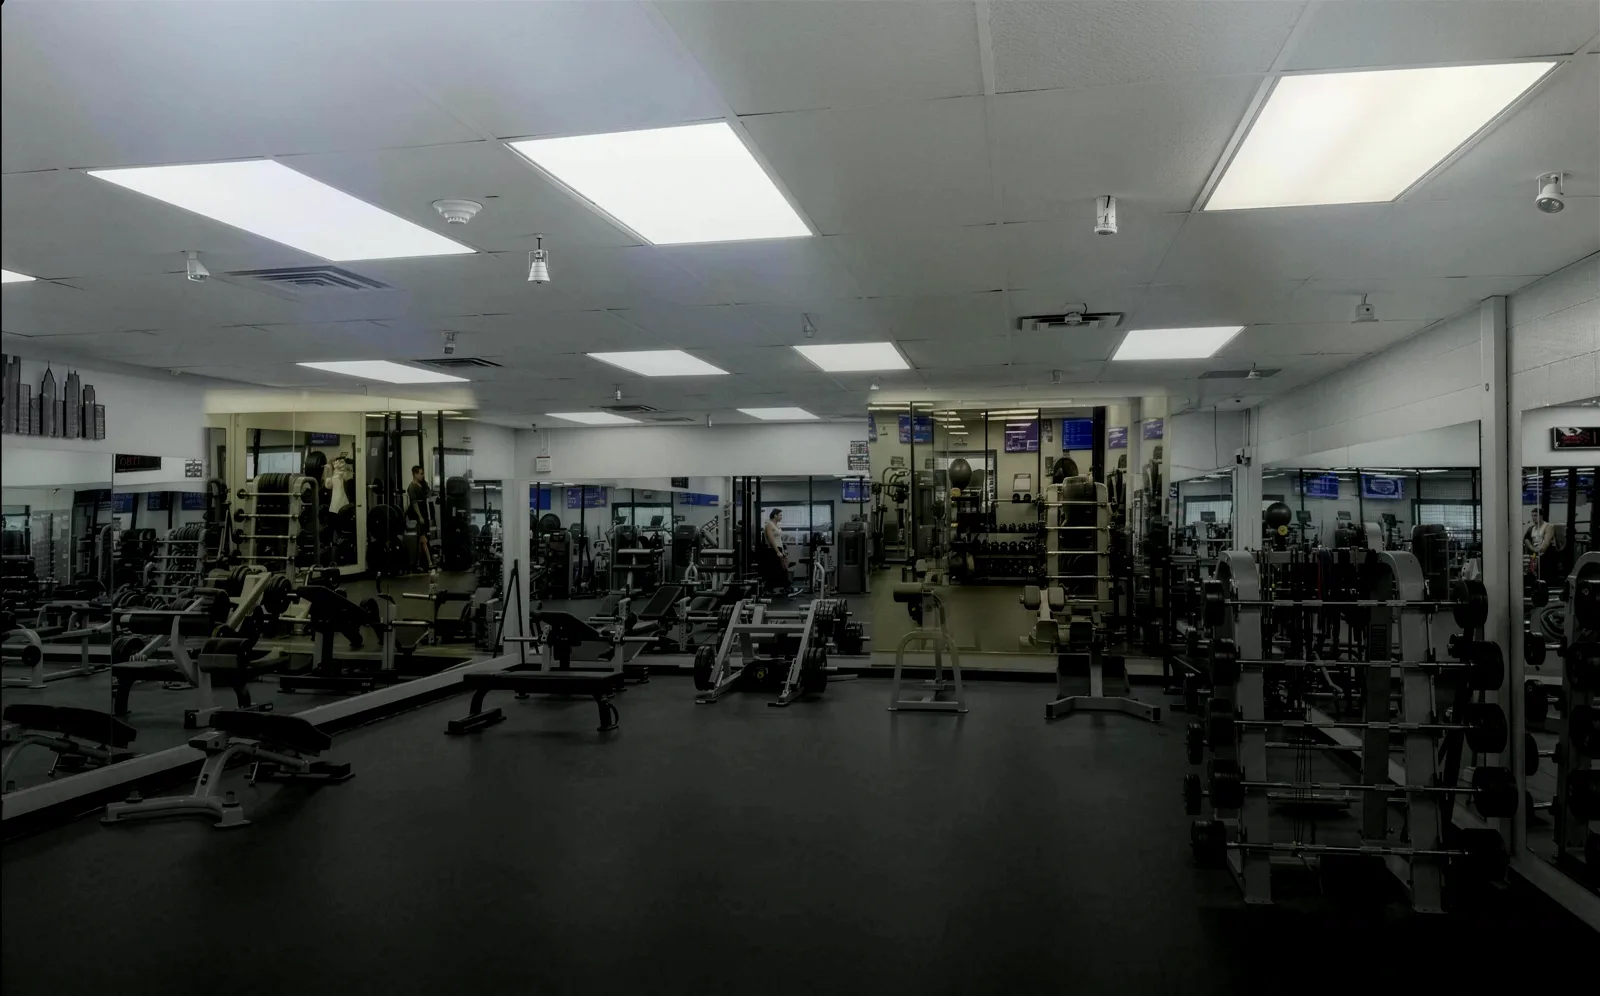
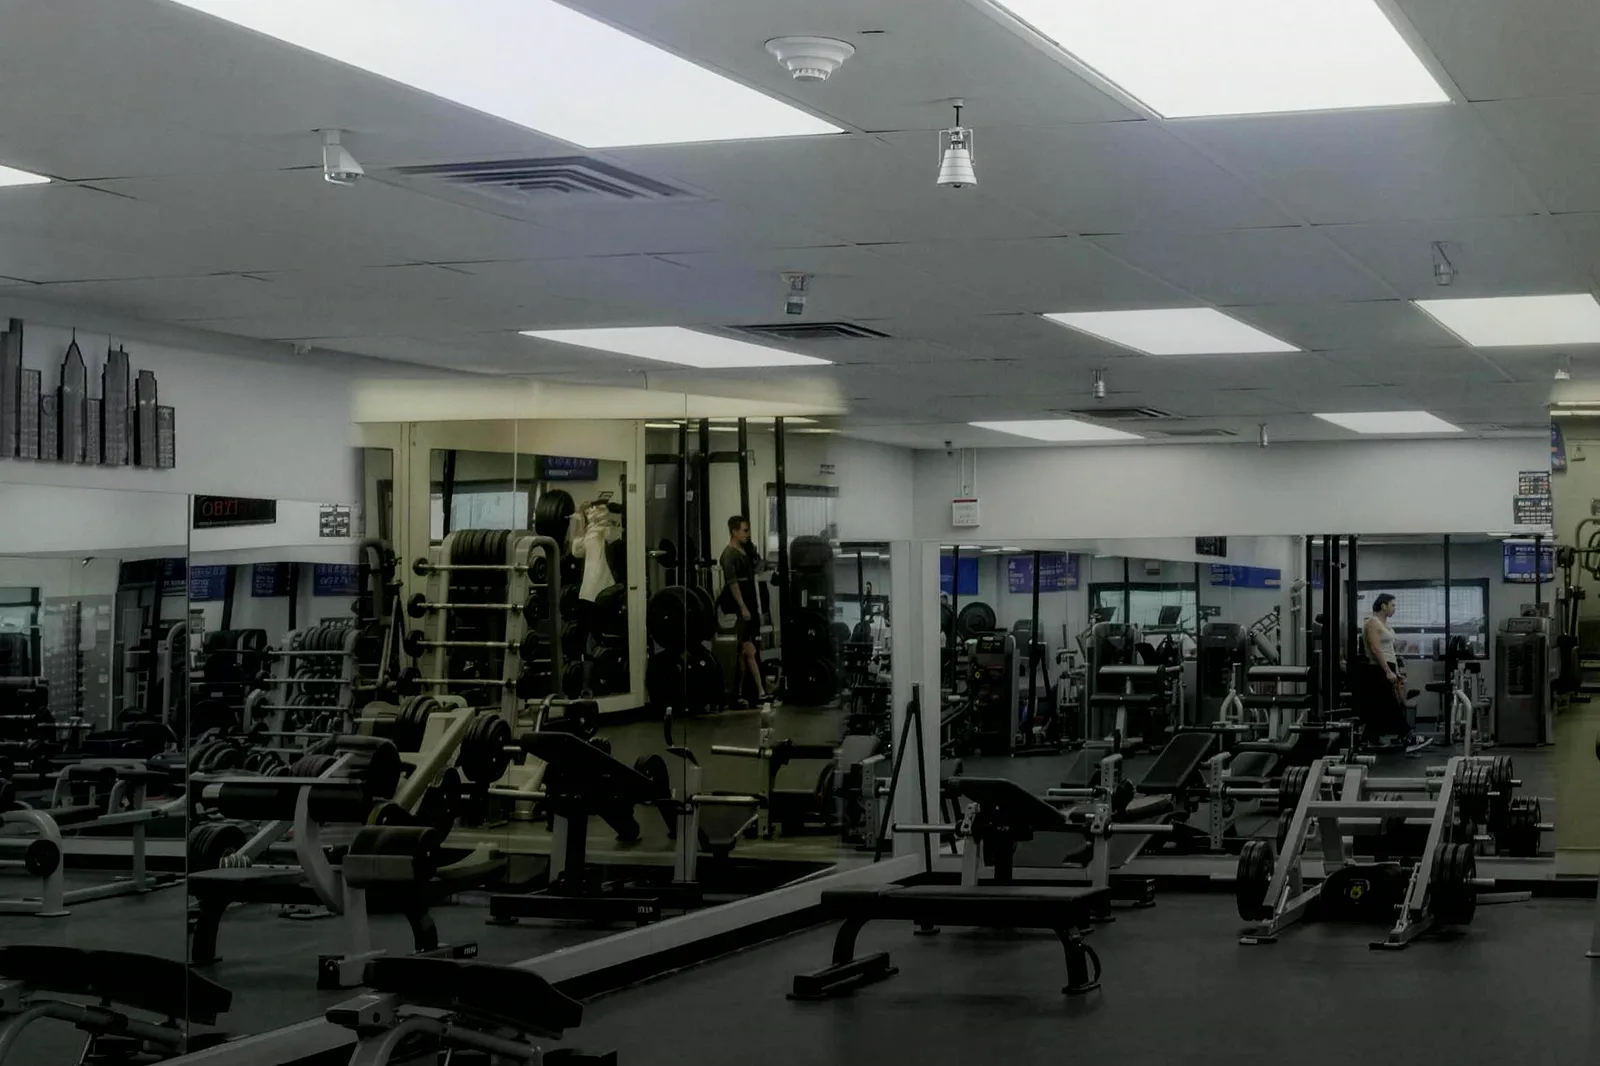
Fix strip loop, clip the training photo, replace the retouched free-weight frame
- strip: the loop distance was measured before lazy images had dimensions, so
  scrollWidth read ~0 and the track wrapped almost immediately, repeating the
  same two photos. Now eager-loads the strip images and measures after load.
- .train-photo had no overflow clip, so its parallaxed image escaped upward
  over the marquee band. Clipped, matching .room-fig.
- chapter 04 photo: the model's fill left a flat patch in the mirror and a
  self-clone duplicated a person. Replaced with a straight crop that excludes
  the reflection entirely — no model pixels, no cloning.

diff --git a/index.html b/index.html
@@ -18,7 +18,7 @@
 
 <meta property="og:description" content="Norman's neighborhood gym. Open every hour of every day. 1610 W Lindsey St · (405) 801-2929">
 
-<meta property="og:image" content="img/og.jpg?v=20260904b">
+<meta property="og:image" content="img/og.jpg?v=20260904c">
 
 <meta property="og:type" content="website">
 
@@ -42,11 +42,11 @@
 
 <link rel="stylesheet" href="https://fonts.googleapis.com/css2?family=Fjalla+One&family=Source+Sans+Pro:wght@400;600&display=swap">
 
-<link rel="stylesheet" href="css/site.css?v=20260904b">
+<link rel="stylesheet" href="css/site.css?v=20260904c">
 
-<link rel="preload" as="image" href="media/open_1920.webp?v=20260904b" fetchpriority="high" media="(min-width: 900px)">
+<link rel="preload" as="image" href="media/open_1920.webp?v=20260904c" fetchpriority="high" media="(min-width: 900px)">
 
-<link rel="preload" as="image" href="media/open_1280.webp?v=20260904b" fetchpriority="high" media="(max-width: 899px)">
+<link rel="preload" as="image" href="media/open_1280.webp?v=20260904c" fetchpriority="high" media="(max-width: 899px)">
 
 
 
@@ -202,7 +202,7 @@
 
   <video class="hero-video" id="hero" muted playsinline preload="metadata"
 
-         poster="media/poster.jpg?v=20260904b"
+         poster="media/poster.jpg?v=20260904c"
 
          disablepictureinpicture disableremoteplayback
 
@@ -210,9 +210,9 @@
 
     <!-- no-JS fallback selection; with JS the src is chosen below (media on <source> is not universal) -->
 
-    <source src="media/hero_960.mp4?v=20260904b" type="video/mp4" media="(max-width: 899px)">
+    <source src="media/hero_960.mp4?v=20260904c" type="video/mp4" media="(max-width: 899px)">
 
-    <source src="media/hero.mp4?v=20260904b" type="video/mp4">
+    <source src="media/hero.mp4?v=20260904c" type="video/mp4">
 
   </video>
 
@@ -228,7 +228,7 @@
 
       if (document.documentElement.classList.contains('static')) { v.preload = 'none'; }
 
-      v.src = (window.innerWidth < 900 ? 'media/hero_960.mp4' : 'media/hero.mp4') + '?v=20260904b';
+      v.src = (window.innerWidth < 900 ? 'media/hero_960.mp4' : 'media/hero.mp4') + '?v=20260904c';
 
     })();
 
@@ -246,9 +246,9 @@
 
     <picture>
 
-      <source media="(max-width: 899px)" srcset="media/open_1280.webp?v=20260904b">
+      <source media="(max-width: 899px)" srcset="media/open_1280.webp?v=20260904c">
 
-      <img id="preImg" src="media/open_1920.webp?v=20260904b" alt="" decoding="async" fetchpriority="high">
+      <img id="preImg" src="media/open_1920.webp?v=20260904c" alt="" decoding="async" fetchpriority="high">
 
     </picture>
 
@@ -417,7 +417,7 @@
 
   <article class="room room-img reveal-clip">
 
-    <figure class="room-fig"><img class="plx" src="img/g2/P082.webp?v=20260904b" srcset="img/g2/P082_s.webp?v=20260904b 800w, img/g2/P082.webp?v=20260904b 1600w"
+    <figure class="room-fig"><img class="plx" src="img/g2/P082.webp?v=20260904c" srcset="img/g2/P082_s.webp?v=20260904c 800w, img/g2/P082.webp?v=20260904c 1600w"
 
          sizes="(max-width: 899px) 100vw, 72vw" loading="lazy" decoding="async"
 
@@ -441,7 +441,7 @@
 
   <article class="room room-img reveal-clip">
 
-    <figure class="room-fig"><img class="plx" src="img/g2/P096.webp?v=20260904b" srcset="img/g2/P096_s.webp?v=20260904b 800w, img/g2/P096.webp?v=20260904b 1600w"
+    <figure class="room-fig"><img class="plx" src="img/g2/P096.webp?v=20260904c" srcset="img/g2/P096_s.webp?v=20260904c 800w, img/g2/P096.webp?v=20260904c 1600w"
 
          sizes="(max-width: 899px) 100vw, 72vw" loading="lazy" decoding="async"
 
@@ -469,7 +469,7 @@
 
   <article class="room room-img reveal-clip">
 
-    <figure class="room-fig"><img class="plx" src="img/g2/P002.webp?v=20260904b" srcset="img/g2/P002_s.webp?v=20260904b 800w, img/g2/P002.webp?v=20260904b 1600w"
+    <figure class="room-fig"><img class="plx" src="img/g2/P002.webp?v=20260904c" srcset="img/g2/P002_s.webp?v=20260904c 800w, img/g2/P002.webp?v=20260904c 1600w"
 
          sizes="(max-width: 899px) 100vw, 72vw" loading="lazy" decoding="async"
 
@@ -493,7 +493,7 @@
 
   <article class="room room-img reveal-clip">
 
-    <figure class="room-fig"><img class="plx" src="img/g2/N1.webp?v=20260904b" srcset="img/g2/N1_s.webp?v=20260904b 800w, img/g2/N1.webp?v=20260904b 1600w"
+    <figure class="room-fig"><img class="plx" src="img/g2/N1.webp?v=20260904c" srcset="img/g2/N1_s.webp?v=20260904c 800w, img/g2/N1.webp?v=20260904c 1600w"
 
          sizes="(max-width: 899px) 100vw, 72vw" loading="lazy" decoding="async"
 
@@ -514,7 +514,7 @@
 
   <article class="room room-img room-dark reveal-clip">
 
-    <figure class="room-fig"><img class="plx" src="img/g2/P097.webp?v=20260904b" srcset="img/g2/P097_s.webp?v=20260904b 800w, img/g2/P097.webp?v=20260904b 1600w"
+    <figure class="room-fig"><img class="plx" src="img/g2/P097.webp?v=20260904c" srcset="img/g2/P097_s.webp?v=20260904c 800w, img/g2/P097.webp?v=20260904c 1600w"
 
          sizes="(max-width: 899px) 100vw, 72vw" loading="lazy" decoding="async"
 
@@ -589,7 +589,7 @@
   </div>
 
   <figure class="train-photo reveal" aria-hidden="true">
-    <img src="img/g2/N5.webp?v=20260904b" srcset="img/g2/N5_s.webp?v=20260904b 800w, img/g2/N5.webp?v=20260904b 1600w"
+    <img src="img/g2/N5.webp?v=20260904c" srcset="img/g2/N5_s.webp?v=20260904c 800w, img/g2/N5.webp?v=20260904c 1600w"
          sizes="(max-width: 899px) 100vw, 46vw" loading="lazy" decoding="async" alt="Three of the Downtown Fitness crew flexing at the front desk"></figure>
 
 </section>
@@ -609,14 +609,14 @@
   <h2 class="strip-title reveal">Around the&nbsp;gym.</h2>
 
   <div class="strip" tabindex="0" role="group" aria-label="Photo strip">
-    <img src="img/g2/N4.webp?v=20260904b" loading="lazy" decoding="async" alt="The red room: ellipticals, bikes and rowers against the red brick wall under two TVs">
-    <img src="img/g2/N6.webp?v=20260904b" loading="lazy" decoding="async" alt="Green, yellow and blue bumper plates on the rack, up close">
-    <img src="img/g2/P098.webp?v=20260904b" loading="lazy" decoding="async" alt="The locker room: cedar bench, lockers and the sauna door">
-    <img src="img/g2/P004.webp?v=20260904b" loading="lazy" decoding="async" alt="The dumbbell rack running away down the mirror wall">
-    <img src="img/g2/P095.webp?v=20260904b" loading="lazy" decoding="async" alt="The cardio row from the front, treadmills and ellipticals under mounted TVs">
-    <img src="img/g2/N5.webp?v=20260904b" loading="lazy" decoding="async" alt="Three of the Downtown Fitness crew at the front desk">
-    <img src="img/g2/P097.webp?v=20260904b" loading="lazy" decoding="async" alt="Inside the cedar sauna: warm timber benches and walls">
-    <img src="img/g2/P025.webp?v=20260904b" loading="lazy" decoding="async" alt="Hex dumbbells receding in a diagonal along the mirror">
+    <img src="img/g2/N4.webp?v=20260904c" loading="lazy" decoding="async" alt="The red room: ellipticals, bikes and rowers against the red brick wall under two TVs">
+    <img src="img/g2/N6.webp?v=20260904c" loading="lazy" decoding="async" alt="Green, yellow and blue bumper plates on the rack, up close">
+    <img src="img/g2/P098.webp?v=20260904c" loading="lazy" decoding="async" alt="The locker room: cedar bench, lockers and the sauna door">
+    <img src="img/g2/P004.webp?v=20260904c" loading="lazy" decoding="async" alt="The dumbbell rack running away down the mirror wall">
+    <img src="img/g2/P095.webp?v=20260904c" loading="lazy" decoding="async" alt="The cardio row from the front, treadmills and ellipticals under mounted TVs">
+    <img src="img/g2/N5.webp?v=20260904c" loading="lazy" decoding="async" alt="Three of the Downtown Fitness crew at the front desk">
+    <img src="img/g2/P097.webp?v=20260904c" loading="lazy" decoding="async" alt="Inside the cedar sauna: warm timber benches and walls">
+    <img src="img/g2/P025.webp?v=20260904c" loading="lazy" decoding="async" alt="Hex dumbbells receding in a diagonal along the mirror">
   </div>
 
 </section>
@@ -687,7 +687,7 @@
 
       <p class="tagline reveal">
 
-        <img class="badge" src="img/logo.png?v=20260904b" width="250" height="108" alt="Downtown Fitness — On West Lindsey" loading="lazy">
+        <img class="badge" src="img/logo.png?v=20260904c" width="250" height="108" alt="Downtown Fitness — On West Lindsey" loading="lazy">
 
         <span>Kickstarting Healthy Lifestyles.</span>
 
@@ -711,7 +711,7 @@
 
 <footer class="foot">
 
-  <img class="badge badge-foot" src="img/logo.png?v=20260904b" width="250" height="108" alt="" loading="lazy">
+  <img class="badge badge-foot" src="img/logo.png?v=20260904c" width="250" height="108" alt="" loading="lazy">
 
   <p class="foot-line">Downtown Fitness <span aria-hidden="true">·</span> On West Lindsey <span aria-hidden="true">·</span> <a href="https://dfnorman.com" rel="noopener">dfnorman.com</a></p>
 
@@ -771,9 +771,9 @@
 
 <script defer src="https://cdn.jsdelivr.net/npm/lenis@1.1.18/dist/lenis.min.js"></script>
 
-<script defer src="js/film.js?v=20260904b"></script>
+<script defer src="js/film.js?v=20260904c"></script>
 
-<script defer src="js/sections.js?v=20260904b"></script>
+<script defer src="js/sections.js?v=20260904c"></script>
 
 </body>
 

diff --git a/js/sections.js b/js/sections.js
@@ -86,22 +86,33 @@
       scrollTrigger: { trigger: el, start: 'top 85%', once: true } });
   }
 
-  /* The strip drives itself: continuous loop, pauses while you're over it. */
+  /* The strip drives itself: continuous loop, pauses while you're over it.
+     The loop distance MUST be measured AFTER the images have real dimensions.
+     Lazy images report scrollWidth ~0, so the track wrapped almost immediately
+     and the same two photos repeated on screen. */
   const strip = document.querySelector('.strip');
   if (strip) {
+    const imgs = Array.from(strip.querySelectorAll('img'));
+    imgs.forEach(i => { i.loading = 'eager'; });
     const track = document.createElement('div');
     track.className = 'strip-track';
     while (strip.firstChild) track.appendChild(strip.firstChild);
     strip.appendChild(track);
     strip.appendChild(track.cloneNode(true));
     strip.style.overflow = 'hidden';
-    const both = strip.children;
-    const w = () => track.scrollWidth + 14;
-    const roll = gsap.to(both, { x: () => -w(), ease: 'none', duration: 46, repeat: -1,
-      modifiers: { x: gsap.utils.unitize(x => parseFloat(x) % w()) } });
-    strip.addEventListener('pointerenter', () => gsap.to(roll, { timeScale: 0, duration: 0.5 }));
-    strip.addEventListener('pointerleave', () => gsap.to(roll, { timeScale: 1, duration: 0.5 }));
-    window.addEventListener('load', () => ST.refresh(), { once: true });
+    let roll = null;
+    const start = () => {
+      const dist = track.scrollWidth + 14;
+      if (dist < 600) return;                        // not laid out yet
+      if (roll) roll.kill();
+      roll = gsap.to(strip.children, { x: () => -dist, ease: 'none', duration: dist / 62, repeat: -1,
+        modifiers: { x: gsap.utils.unitize(x => parseFloat(x) % dist) } });
+    };
+    Promise.all(imgs.map(i => i.complete ? Promise.resolve() : new Promise(r => { i.onload = i.onerror = r; })))
+      .then(() => { start(); ST.refresh(); });
+    let rt; window.addEventListener('resize', () => { clearTimeout(rt); rt = setTimeout(start, 200); });
+    strip.addEventListener('pointerenter', () => roll && gsap.to(roll, { timeScale: 0, duration: 0.5 }));
+    strip.addEventListener('pointerleave', () => roll && gsap.to(roll, { timeScale: 1, duration: 0.5 }));
   }
 
   ST.refresh();

diff --git a/css/site.css b/css/site.css
@@ -360,9 +360,9 @@ html.static .pre img{transform:none}
 .train-rule{display:block;width:64px;height:4px;background:var(--red-hot);margin-bottom:28px}
 .train h2{font-family:'Fjalla One',Impact,'Arial Narrow',sans-serif;font-size:var(--d3);line-height:.98;text-transform:uppercase;letter-spacing:.005em;margin:0 0 20px}
 .train p{max-width:44ch;font-size:clamp(15px,1.25vw,19px);line-height:1.55;color:#E2E2E2;margin:0 0 26px}
-.train-photo{margin:0;min-height:320px}
-.train-photo img{width:100%;height:100%;object-fit:cover;display:block}
-@media (max-width:899px){.train{grid-template-columns:1fr}.train-photo{order:-1;min-height:0}.train-photo img{aspect-ratio:16/10}}
+.train-photo{margin:0;min-height:320px;overflow:hidden;position:relative}
+.train-photo img{position:absolute;left:0;top:-8%;width:100%;height:116%;object-fit:cover;display:block}
+@media (max-width:899px){.train{grid-template-columns:1fr}.train-photo{order:-1;min-height:0;aspect-ratio:16/10}.train-photo img{position:absolute;inset:auto;left:0;top:-8%;height:116%}}
 
 /* ============================= THE FLOOR — filmstrip */
 .strip-wrap{background:#0f0f0f;padding:clamp(40px,7vw,88px) 0 clamp(48px,8vw,104px)}
